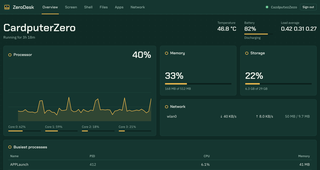
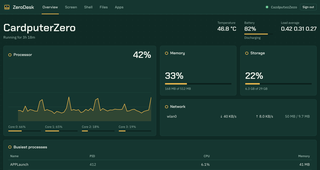
0.1.8: remove the Network tab; README shows three screenshots; point to WireZero for remote access

diff --git a/web/app.js b/web/app.js
@@ -780,62 +780,6 @@
     return { enter() { if (!loaded) { loaded = true; loadStore(); loadInstalled(); } } };
   })();
 
-  // ---------------------------------------------------------------- network
-  tabs.network = (function () {
-    let loaded = false;
-    async function loadConns() {
-      let d;
-      try { d = await api("GET", "/api/network"); } catch (e) { toast(e.message, true); return; }
-      $("conns").tBodies[0].replaceChildren(...d.connections.map(c => {
-        const tr = el("tr");
-        const act = el("td", "td-act");
-        const b = el("button", "ghost small", c.active ? "Disconnect" : "Connect");
-        b.addEventListener("click", async () => {
-          if (c.active && c.type === "wifi" && !await dialog("Disconnect " + c.name + "? This browser will probably lose contact with the Cardputer.", false, "", "Disconnect", true)) return;
-          b.disabled = true;
-          try { await api("POST", "/api/network/" + (c.active ? "down" : "up"), { uuid: c.uuid }); toast(c.name + (c.active ? " disconnected" : " connected")); }
-          catch (e) { toast(e.message, true); }
-          loadConns();
-        });
-        act.append(b);
-        if (c.type === "wifi" && !c.active) {
-          const f = el("button", "ghost small", "Forget");
-          f.addEventListener("click", async () => {
-            if (!await dialog("Forget the Wi-Fi network " + c.name + "?", false, "", "Forget", true)) return;
-            if (await runAdmin("/api/network/forget", { uuid: c.uuid }, "Forget " + c.name)) loadConns();
-          });
-          act.append(f);
-        }
-        const name = el("td"); name.append(el("span", "dot " + (c.active ? "ok" : "")), document.createTextNode(" " + c.name));
-        tr.append(name, el("td", "muted", c.type === "wifi" ? "Wi-Fi" : c.type === "vpn" ? "VPN" : "Ethernet"),
-          el("td", "muted", c.device), act);
-        return tr;
-      }));
-    }
-    async function scan(rescan) {
-      $("wifi").tBodies[0].replaceChildren(el("tr")); $("wifi").tBodies[0].firstChild.append(el("td", "muted small", "Scanning…"));
-      let d;
-      try { d = await api("GET", "/api/network/scan" + (rescan ? "?rescan=1" : "")); } catch (e) { toast(e.message, true); return; }
-      $("wifi").tBodies[0].replaceChildren(...d.networks.map(n => {
-        const tr = el("tr");
-        const act = el("td", "td-act");
-        if (!n.in_use) {
-          const b = el("button", "ghost small", "Join");
-          b.addEventListener("click", async () => {
-            let psk = "";
-            if (n.secure) { psk = await dialog("Wi-Fi password for " + n.ssid + ":", true, "", "Join", false, true); if (!psk) return; }
-            if (await runAdmin("/api/network/join", { ssid: n.ssid, password: psk }, "Join " + n.ssid)) loadConns();
-          });
-          act.append(b);
-        } else act.append(el("span", "tag", "Connected"));
-        tr.append(el("td", "", n.ssid), el("td", "num muted", n.signal + "%"), el("td", "muted", n.secure ? "Secured" : "Open"), act);
-        return tr;
-      }));
-    }
-    $("net-refresh").addEventListener("click", loadConns);
-    $("wifi-scan").addEventListener("click", () => scan(true));
-    return { enter() { if (!loaded) { loaded = true; loadConns(); scan(false); } } };
-  })();
 
   // ---------------------------------------------------------------- start
   const start = (location.hash || "#overview").slice(1);

diff --git a/web/index.html b/web/index.html
@@ -17,7 +17,6 @@
     <button role="tab" data-tab="shell">Shell</button>
     <button role="tab" data-tab="files">Files</button>
     <button role="tab" data-tab="apps">Apps</button>
-    <button role="tab" data-tab="network">Network</button>
   </nav>
   <div class="top-right"><span id="conn" class="dot ok" title="Connected"></span>
     <span id="hostname" class="muted"></span>
@@ -139,16 +138,6 @@
     </div>
   </section>
 
-  <!-- Network -->
-  <section id="tab-network" class="tab">
-    <div class="net-pages">
-      <div class="card"><div class="card-head"><h2>Saved connections</h2><button id="net-refresh" class="ghost small">Refresh</button></div>
-        <table class="table" id="conns"><tbody></tbody></table>
-        <p class="muted small">Switching Wi-Fi may cut off this browser. If it does, use the new address on the Cardputer.</p></div>
-      <div class="card"><div class="card-head"><h2>Wi-Fi nearby</h2><button id="wifi-scan" class="ghost small">Scan</button></div>
-        <table class="table" id="wifi"><tbody></tbody></table></div>
-    </div>
-  </section>
 
 </main>
 

diff --git a/web/app.css b/web/app.css
@@ -274,8 +274,8 @@ main { flex: 1; padding: 26px 22px; min-height: 0; width: 100%; max-width: 1480p
 .apps-bar { display: flex; gap: 10px; align-items: center; margin-bottom: 16px; }
 .apps-bar input { flex: 1; max-width: 440px; }
 .apps-bar .button { padding: 10px 16px; font-size: 14px; }
-.apps-pages, .net-pages { display: grid; grid-template-columns: minmax(0, 2fr) minmax(0, 1fr); gap: 16px; align-items: start; }
-@media (max-width: 1000px) { .apps-pages, .net-pages { grid-template-columns: 1fr; } }
+.apps-pages { display: grid; grid-template-columns: minmax(0, 2fr) minmax(0, 1fr); gap: 16px; align-items: start; }
+@media (max-width: 1000px) { .apps-pages { grid-template-columns: 1fr; } }
 .store-list { display: grid; grid-template-columns: repeat(auto-fill, minmax(260px, 1fr)); gap: 12px; max-height: 70vh; overflow: auto; }
 .store-item { border: 1px solid var(--trace-soft); border-radius: 6px; padding: 14px; display: flex; flex-direction: column; gap: 6px; background: var(--board-2); }
 .store-item:hover { border-color: var(--trace); }

diff --git a/zerodesk/server.py b/zerodesk/server.py
@@ -10,7 +10,7 @@ import zlib
 
 from aiohttp import WSMsgType, web
 
-from . import admin, network, packages
+from . import admin, packages
 from . import files as F
 from .apps import AppError, icon_path, list_apps
 from .screen import MAX_PASTE, text_to_keys, to_png
@@ -559,7 +559,7 @@ async def _start_job(request, title, steps_factory):
     try:
         steps = steps_factory(pw)
         job = ctx.jobs.start(title, steps, owner=tok)
-    except (admin.AdminError, network.NetError) as e:
+    except admin.AdminError as e:
         return _json_error(409, str(e))
     return web.json_response({"job": job.id})
 
@@ -679,62 +679,6 @@ async def package_remove(request):
     return await _start_job(request, "Remove %s" % pkg, lambda pw: packages.remove_steps(pkg, pw))
 
 
-# ------------------------------------------------------------------ network
-async def net_overview(request):
-    try:
-        return web.json_response(await _run(network.overview))
-    except network.NetError as e:
-        return _json_error(400, str(e))
-
-
-async def net_scan(request):
-    try:
-        nets = await _run(network.scan, request.query.get("rescan") == "1")
-    except network.NetError as e:
-        return _json_error(400, str(e))
-    return web.json_response({"networks": nets})
-
-
-async def net_up(request):
-    b = await _body(request)
-    try:
-        await _run(network.up, b.get("uuid"))
-    except network.NetError as e:
-        return _json_error(400, str(e))
-    return web.json_response({"ok": True})
-
-
-async def net_down(request):
-    b = await _body(request)
-    try:
-        await _run(network.down, b.get("uuid"))
-    except network.NetError as e:
-        return _json_error(400, str(e))
-    return web.json_response({"ok": True})
-
-
-async def net_join(request):
-    b = await _body(request)
-    ssid, psk = b.get("ssid"), b.get("password") or ""
-    if not isinstance(ssid, str) or not isinstance(psk, str):
-        return _json_error(400, "Bad request")
-    try:
-        network.validate_join(ssid, psk)            # validate before asking for anything
-    except network.NetError as e:
-        return _json_error(400, str(e))
-    return await _start_job(request, "Join %s" % ssid, lambda pw: network.join_steps(ssid, psk, pw))
-
-
-async def net_forget(request):
-    b = await _body(request)
-    uuid = b.get("uuid")
-    try:
-        network.forget_steps(uuid, None)
-    except network.NetError as e:
-        return _json_error(400, str(e))
-    return await _start_job(request, "Forget network", lambda pw: network.forget_steps(uuid, pw))
-
-
 # ------------------------------------------------------------------ app
 async def close_sockets(app):
     """On quit: tell every browser we're going, instead of waiting for them."""
@@ -778,12 +722,6 @@ def make_app(ctx):
     r.add_post("/api/packages/install-upload", deb_install_cached)
     r.add_get("/api/packages/installed", installed_apps)
     r.add_post("/api/packages/{pkg}/remove", package_remove)
-    r.add_get("/api/network", net_overview)
-    r.add_get("/api/network/scan", net_scan)
-    r.add_post("/api/network/up", net_up)
-    r.add_post("/api/network/down", net_down)
-    r.add_post("/api/network/join", net_join)
-    r.add_post("/api/network/forget", net_forget)
     r.add_get("/ws/shell", ws_shell)
     r.add_get("/ws/screen", ws_screen)
     return app

diff --git a/tests/test_zerodesk.py b/tests/test_zerodesk.py
@@ -585,24 +585,6 @@ class TestFeatures(unittest.TestCase):
                 packages.urllib.request.build_opener = old
                 del os.environ["XDG_CACHE_HOME"]
 
-    def test_wifi_validation(self):
-        from zerodesk import network
-        for ssid, psk in (("", "password1"), ("x" * 33, "password1"), ("home", "short")):
-            with self.assertRaises(network.NetError):
-                network.join_steps(ssid, psk, None)
-        network.join_steps("home", "password1", None)
-        network.join_steps("open cafe", "", None)
-
-    def test_wifi_keyfile_and_psk_rules(self):
-        from zerodesk import network
-        with self.assertRaises(network.NetError):
-            network.validate_join("home", "pass\x01word")          # non-printable
-        kf = network.keyfile("Hi;-h", "pa\\ss word", "u-1", sae=True)
-        self.assertIn("ssid=72;105;59;45;104;", kf)               # bytes, no escaping games
-        self.assertIn("psk=pa\\\\ss word", kf)
-        self.assertIn("key-mgmt=sae", kf)
-        self.assertNotIn("wifi-security", network.keyfile("open", "", "u-2"))
-
     def test_password_never_in_env_or_argv(self):
         """sudo gets the password on stdin, which is then closed."""
         from zerodesk import admin

diff --git a/zerodesk/__init__.py b/zerodesk/__init__.py
@@ -1,1 +1,1 @@
-__version__ = "0.1.7"
+__version__ = "0.1.8"

diff --git a/README.md b/README.md
@@ -2,33 +2,37 @@
 
 **Control your M5Stack CardputerZero from a browser.**
 
-Open ZeroDesk on the Cardputer, type the address it shows into a browser on the same network, and enter the one-time code. You get the Cardputer's live screen with a working on-screen keyboard (plus pasting, screenshots and recordings), a shell, a file browser, app installs from the store, Wi-Fi and VPN controls, and system stats.
+Open ZeroDesk on the Cardputer, type the address it shows into a browser on the same network, and enter the one-time code. You get the Cardputer's live screen with a working on-screen keyboard (plus pasting, screenshots and recordings), a shell, a file browser, app installs from the store, and system stats.
 
-![ZeroDesk in a browser: the live Cardputer screen and the app store](docs/screens.png)
+<p>
+  <img src="docs/screen.png" width="32%" alt="The Screen tab: the Cardputer's live screen and keyboard">&nbsp;
+  <img src="docs/overview.png" width="32%" alt="Overview: CPU, memory, storage, battery and network">&nbsp;
+  <img src="docs/apps.png" width="32%" alt="Apps: install from the CardputerZero Store or a .deb">
+</p>
 
 ## How it works
 
 1. **Open ZeroDesk.** The Cardputer shows an address like `https://192.168.1.50:8443` and a 6-digit code.
 2. **Pair.** Open the address in a browser on the same network and enter the code. Your browser will warn about the certificate the first time: ZeroDesk makes its own, and the Cardputer shows the end of its fingerprint so you can check it.
-3. **Use it.** Tabs for Overview, Screen, Shell, Files, Apps and Network. On the Screen tab, click the keys or click the screen and type on your own keyboard. The on-screen keys follow the Cardputer's layout, including `fn` (arrows on `F` `Z` `X` `C`) and `sym`. Keys from the browser go in through the Cardputer's own keyboard, so they work everywhere a real key press would: ZeroDesk's own screen, the built-in apps and store apps you start from the browser, which run on the Cardputer while ZeroDesk keeps serving. (Apps opened from the Cardputer's launcher need ZeroDesk closed, so they can't be typed into remotely.)
+3. **Use it.** Tabs for Overview, Screen, Shell, Files and Apps. On the Screen tab, click the keys or click the screen and type on your own keyboard. The on-screen keys follow the Cardputer's layout, including `fn` (arrows on `F` `Z` `X` `C`) and `sym`. Keys from the browser go in through the Cardputer's own keyboard, so they work everywhere a real key press would: ZeroDesk's own screen, the built-in apps and store apps you start from the browser, which run on the Cardputer while ZeroDesk keeps serving. (Apps opened from the Cardputer's launcher need ZeroDesk closed, so they can't be typed into remotely.)
 
-Installing or removing apps and joining Wi-Fi need admin rights, so the browser asks for your Cardputer password (the one `sudo` uses). It's checked, kept in memory for 5 minutes and never saved.
+Installing or removing apps needs admin rights, so the browser asks for your Cardputer password (the one `sudo` uses). It's checked, kept in memory for 5 minutes and never saved.
 
-On the Cardputer, or from the browser's keyboard: `4` new code, `6` sign everyone out, `8` show the full certificate fingerprint, `F`/`X` switch network, `Esc` quit (this stops the server).
+On the Cardputer, or from the browser's keyboard: `4` new code, `6` sign everyone out, `8` show the full certificate fingerprint, `F`/`X` switch which address is shown (if it has more than one), `Esc` quit (this stops the server).
 
 ## Install
 
 ZeroDesk will be in the CardputerZero Store (share code `ZDSK`) once reviewed. Until then, build the `.deb` with `packaging/build-deb.sh` and run:
 
 ```sh
-sudo apt install ./zerodesk_0.1.7-1_arm64.deb
+sudo apt install ./zerodesk_0.1.8-1_arm64.deb
 ```
 
 Reboot once after installing so remote typing works.
 
 ## Security
 
-- Local network only. Connections from internet addresses are refused. To use it away from home, connect to your network over a VPN first. Never forward its port on your router.
+- Local network only. Connections from internet addresses are refused. To use it away from home, connect to your network over a VPN first, for example a WireGuard tunnel with [WireZero](https://github.com/r-morato/wirezero). Never forward its port on your router.
 - Each code works once and expires after 5 minutes. Wrong codes pause pairing for longer each time, and after 15 wrong guesses pairing stops until `4` is pressed on the Cardputer (or from a browser that's already paired). The device shows where wrong codes came from and which addresses are paired.
 - On a network you don't trust, compare the certificate fingerprint in your browser with the one on the Cardputer (`8`) before typing the code.
 - HTTPS only. Sessions live in memory, expire after 15 minutes idle or 12 hours, and end when you quit the app.
